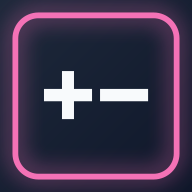
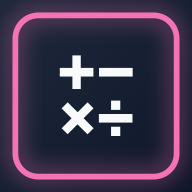
Nowe ikony PWA z +− i ×÷ na dwoch liniach

Changed region(s): [[0.2188, 0.2812, 0.7812, 0.7188]]

diff --git a/generate-icons.js b/generate-icons.js
@@ -27,13 +27,14 @@ function drawIcon(size, filename) {
   ctx.roundRect(size * 0.08, size * 0.08, size * 0.84, size * 0.84, size * 0.12);
   ctx.stroke();
 
-  // Math symbol "+" and "−" in center
+  // Math symbols "+−" top and "×÷" bottom
   ctx.shadowBlur = 0;
   ctx.fillStyle = '#f8fafc';
-  ctx.font = `bold ${size * 0.5}px Arial`;
+  ctx.font = `bold ${size * 0.35}px Arial`;
   ctx.textAlign = 'center';
   ctx.textBaseline = 'middle';
-  ctx.fillText('+−', size / 2, size / 2);
+  ctx.fillText('+−', size / 2, size * 0.38);
+  ctx.fillText('×÷', size / 2, size * 0.62);
 
   const buffer = canvas.toBuffer('image/png');
   fs.writeFileSync(filename, buffer);
